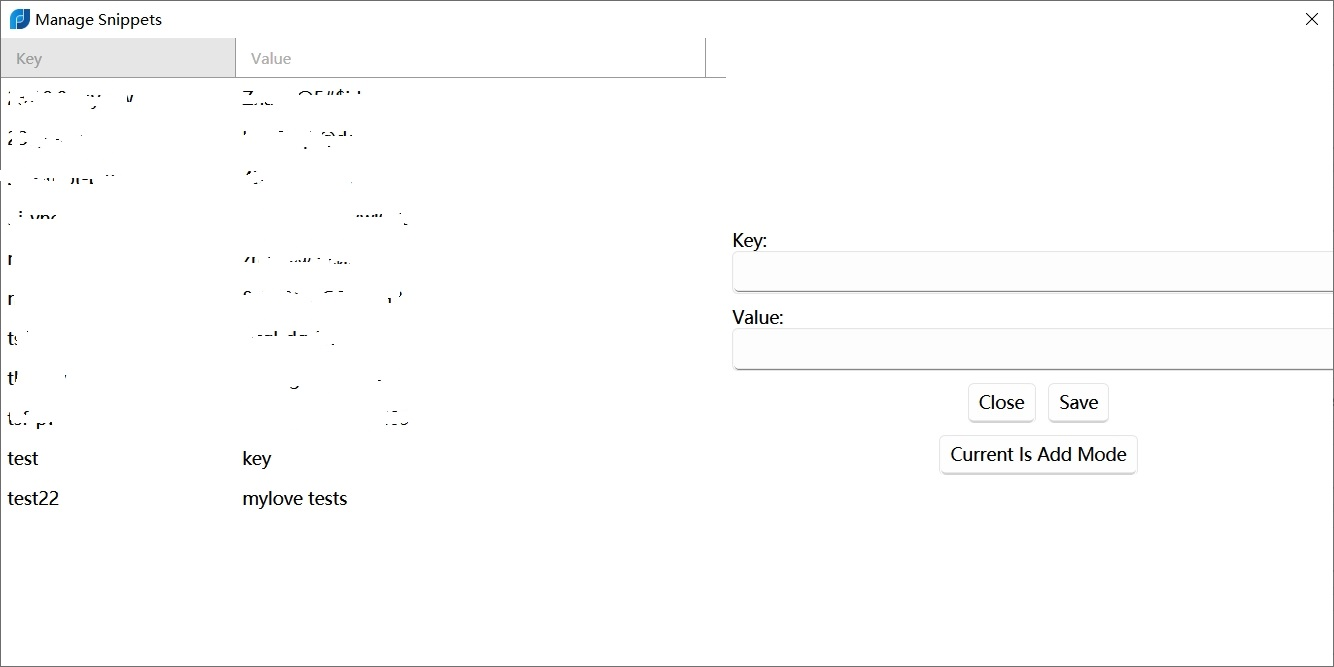
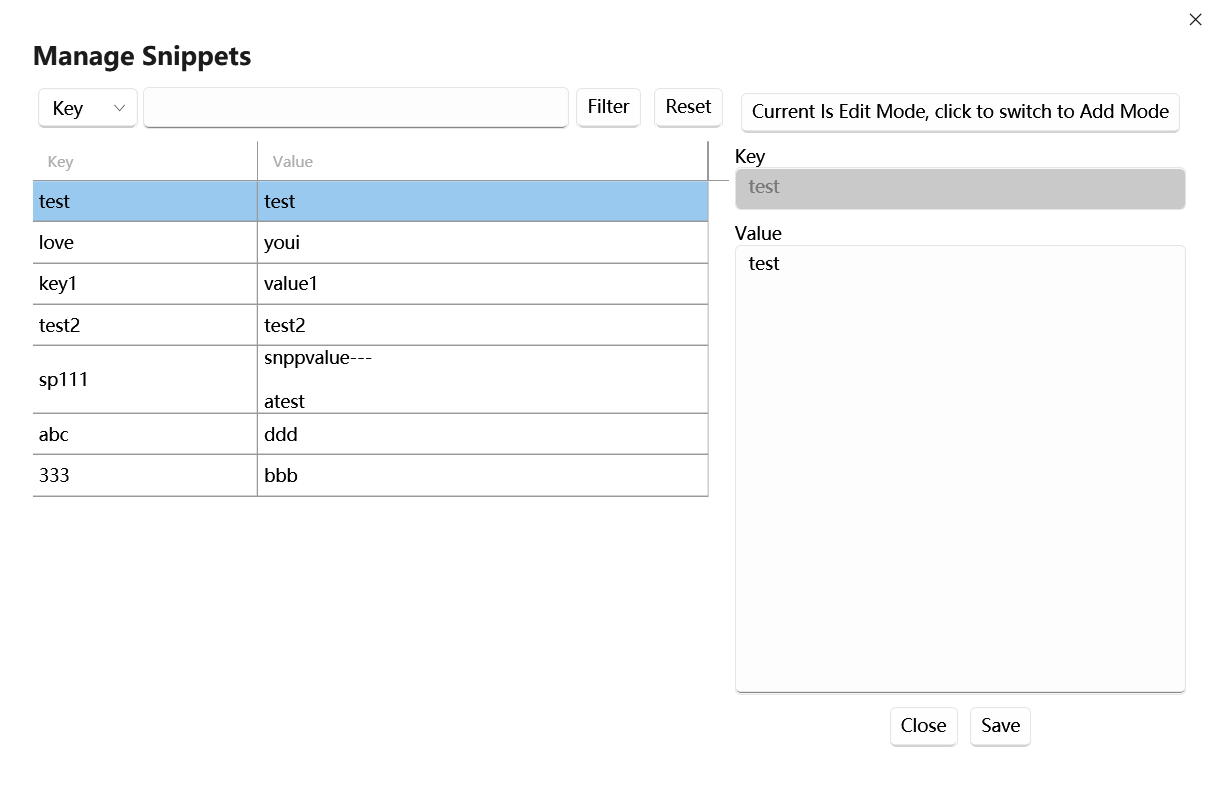
merge to sqlite and json

diff --git a/Flow.Launcher.Plugin.Snippets/SettingPanel.xaml b/Flow.Launcher.Plugin.Snippets/SettingPanel.xaml
@@ -25,23 +25,20 @@
 
         <StackPanel Orientation="Horizontal" Margin="10">
 
-            <Label Width="180" VerticalAlignment="Center"
+            <Label VerticalAlignment="Center"
                    Content="{DynamicResource snippets_plugin_storage_mode}">
             </Label>
 
-            <RadioButton Name="RadioButtonJsonSetting" Margin="10,0,10,0"
-                         GroupName="StorageMode"
-                         VerticalAlignment="Center" Checked="RadioButtonJsonSetting_OnChecked"
-                         Content="{DynamicResource snippets_plugin_storage_json_setting}">
-            </RadioButton>
-            <RadioButton Name="RadioButtonSqlite" Margin="10,0,10,0"
-                         GroupName="StorageMode"
-                         VerticalAlignment="Center" Checked="RadioButtonSqlite_OnChecked"
-                         Content="{DynamicResource snippets_plugin_storage_sqlite}">
-            </RadioButton>
-            <Button Click="ButtonRestart_OnClick" Margin="10,0,10,0"
-                    Content="{DynamicResource snippets_plugin_restart_app}">
+            <ComboBox Name="ComboBoxStorageMode" Margin="10,0,10,0" Width="300">
+                <ComboBoxItem Content="{DynamicResource snippets_plugin_storage_json_setting}"></ComboBoxItem>
+                <ComboBoxItem Content="{DynamicResource snippets_plugin_storage_sqlite}"></ComboBoxItem>
+            </ComboBox>
+
+            <Button Click="ButtonChangeAndRestart_OnClick" Margin="10,0,10,0"
+                    Content="{DynamicResource snippets_plugin_change_and_restart_app}">
             </Button>
+
+
         </StackPanel>
     </StackPanel>
 

diff --git a/Flow.Launcher.Plugin.Snippets/Languages/zh-cn.xaml b/Flow.Launcher.Plugin.Snippets/Languages/zh-cn.xaml
@@ -33,9 +33,12 @@
     <system:String x:Key="snippets_plugin_import">导入</system:String>
     <system:String x:Key="snippets_plugin_clear">清空所有数据</system:String>
     <system:String x:Key="snippets_plugin_storage_mode">存储模式(需要重启应用)</system:String>
-    <system:String x:Key="snippets_plugin_restart_app">重启应用</system:String>
+    <system:String x:Key="snippets_plugin_change_and_restart_app">修改并重启应用</system:String>
     <system:String x:Key="snippets_plugin_storage_json_setting">Json 设置,简单,轻量(默认)</system:String>
     <system:String x:Key="snippets_plugin_storage_sqlite">Sqlite,大量数据</system:String>
     <system:String x:Key="snippets_plugin_select_json_file">选择 Json 文件</system:String>
-
+    <system:String x:Key="snippets_plugin_save_json_file">保存 Json 文件</system:String>
+    <system:String x:Key="snippets_plugin_error">错误</system:String>
+    <system:String x:Key="snippets_plugin_file_not_found">文件不存在</system:String>
+    
 </ResourceDictionary>

diff --git a/Flow.Launcher.Plugin.Snippets/Languages/en.xaml b/Flow.Launcher.Plugin.Snippets/Languages/en.xaml
@@ -33,9 +33,12 @@
     <system:String x:Key="snippets_plugin_import">Import</system:String>
     <system:String x:Key="snippets_plugin_clear">Clear All Data</system:String>
     <system:String x:Key="snippets_plugin_storage_mode">Storage Mode(Need Restart App)</system:String>
-    <system:String x:Key="snippets_plugin_restart_app">Restart App</system:String>
+    <system:String x:Key="snippets_plugin_change_and_restart_app">Change And Restart App</system:String>
     <system:String x:Key="snippets_plugin_storage_json_setting">Json Setting, Simple, Light(Default)</system:String>
     <system:String x:Key="snippets_plugin_storage_sqlite">Sqlite, Large Data</system:String>
     <system:String x:Key="snippets_plugin_select_json_file">Select Json File</system:String>
+    <system:String x:Key="snippets_plugin_save_json_file">Save Json File</system:String>
+    <system:String x:Key="snippets_plugin_error">Error</system:String>
+    <system:String x:Key="snippets_plugin_file_not_found">File Not Found</system:String>
 
 </ResourceDictionary>

diff --git a/Flow.Launcher.Plugin.Snippets/FormWindows.xaml b/Flow.Launcher.Plugin.Snippets/FormWindows.xaml
@@ -82,7 +82,7 @@
 
                     <Grid DockPanel.Dock="Top">
                         <Grid.ColumnDefinitions>
-                            <ColumnDefinition Width="88" />
+                            <ColumnDefinition Width="100" />
                             <ColumnDefinition Width="*" />
                             <ColumnDefinition Width="64" />
                             <ColumnDefinition Width="64" />

diff --git a/Flow.Launcher.Plugin.Snippets/SettingPanel.xaml.cs b/Flow.Launcher.Plugin.Snippets/SettingPanel.xaml.cs
@@ -1,6 +1,8 @@
 using System.IO;
+using System.Threading.Tasks;
 using System.Windows;
 using System.Windows.Controls;
+using Flow.Launcher.Plugin.Snippets.Util;
 using Microsoft.Win32;
 
 namespace Flow.Launcher.Plugin.Snippets;
@@ -18,20 +20,13 @@ public partial class SettingPanel : UserControl
         _snippetManage = snippetManage;
         InitializeComponent();
 
-
-        if (_settings.StorageType == StorageType.Sqlite)
-        {
-            RadioButtonSqlite.IsChecked = true;
-        }
-        else
-        {
-            RadioButtonJsonSetting.IsChecked = true;
-        }
+        ComboBoxStorageMode.SelectedIndex = _settings.StorageType == StorageType.Sqlite ? 1 : 0;
     }
 
     private void ButtonOpenManage_OnClick(object sender, RoutedEventArgs e)
     {
-        var fw = new FormWindows(_publicApi, _snippetManage)
+        FormWindows.ShowWindows(_publicApi, _snippetManage);
+        /*var fw = new FormWindows(_publicApi, _snippetManage)
         {
             // Title = _publicApi.GetTranslation("snippets_plugin_manage_snippets"),
             // WindowStartupLocation = WindowStartupLocation.CenterScreen,
@@ -40,19 +35,7 @@ public partial class SettingPanel : UserControl
             // ResizeMode = ResizeMode.NoResize,
             // ShowInTaskbar = false
         };
-        fw.ShowDialog();
-    }
-
-    private void RadioButtonSqlite_OnChecked(object sender, RoutedEventArgs e)
-    {
-        _settings.StorageType = StorageType.Sqlite;
-        _publicApi.SavePluginSettings();
-    }
-
-    private void RadioButtonJsonSetting_OnChecked(object sender, RoutedEventArgs e)
-    {
-        _settings.StorageType = StorageType.JsonSetting;
-        _publicApi.SavePluginSettings();
+        fw.ShowDialog();*/
     }
 
     private void ButtonClear_OnClick(object sender, RoutedEventArgs e)
@@ -70,25 +53,51 @@ public partial class SettingPanel : UserControl
             Multiselect = false
         };
 
-        if (dialog.ShowDialog() == true)
+        if (dialog.ShowDialog() != true) return;
+
+        var file = dialog.FileName;
+
+        if (!File.Exists(file))
         {
-            var file = dialog.FileName;
-            if (File.Exists(file))
-            {
-                // read file
-                var json = File.ReadAllText(file);
-                _snippetManage.Clear();
-            }
+            _publicApi.ShowMsgError(_publicApi.GetTranslation("snippets_plugin_error"),
+                _publicApi.GetTranslation("snippets_plugin_file_not_found"));
+            return;
         }
+
+        Task.Run(() =>
+        {
+            var sms = FileUtil.ReadSnippets(file);
+            foreach (var sm in sms)
+            {
+                _snippetManage.Add(sm);
+            }
+        });
     }
 
     private void ButtonExport_OnClick(object sender, RoutedEventArgs e)
     {
+        var dialog = new SaveFileDialog
+        {
+            Filter = "Json file (*.json)|*.json",
+            Title = _publicApi.GetTranslation("snippets_plugin_save_json_file"),
+            FileName = "snippets.json"
+        };
+        if (dialog.ShowDialog() != true) return;
+        var file = dialog.FileName;
         var list = _snippetManage.List();
+        Task.Run(() => FileUtil.WriteSnippets(file, list));
     }
 
-    private void ButtonRestart_OnClick(object sender, RoutedEventArgs e)
+    private void ButtonChangeAndRestart_OnClick(object sender, RoutedEventArgs e)
     {
-        _publicApi.RestartApp();
+        var mode = ComboBoxStorageMode.SelectedIndex;
+        var storageType = mode == 0 ? StorageType.JsonSetting : StorageType.Sqlite;
+
+        if (storageType != _settings.StorageType)
+        {
+            _settings.StorageType = storageType;
+            _publicApi.SavePluginSettings();
+            _publicApi.RestartApp();
+        }
     }
 }

diff --git a/Flow.Launcher.Plugin.Snippets/FormWindows.xaml.cs b/Flow.Launcher.Plugin.Snippets/FormWindows.xaml.cs
@@ -11,6 +11,24 @@ namespace Flow.Launcher.Plugin.Snippets;
 
 public partial class FormWindows : Window
 {
+    private static FormWindows _instance;
+
+    public static void ShowWindows(IPublicAPI publicApi, SnippetManage snippetManage,
+        [CanBeNull] SnippetModel selectSm = null)
+    {
+        if (_instance == null)
+        {
+            _instance = new FormWindows(publicApi, snippetManage, selectSm);
+            _instance.Show();
+        }
+        else
+        {
+            _instance._selectSm = selectSm;
+            _instance.Activate();
+        }
+    }
+
+
     private IPublicAPI _publicAPI;
 
     private SnippetManage _snippetManage;
@@ -26,9 +44,16 @@ public partial class FormWindows : Window
     {
         _publicAPI = publicApi;
         _snippetManage = snippetManage;
+        _selectSm = selectSm;
 
         InitializeComponent();
 
+        Activated += (sender, args) =>
+        {
+            _reload();
+        };
+
+        Closed += (sender, args) => { _instance = null; };
         PreviewKeyDown += (sender, e) =>
         {
             if (e.Key == Key.Escape)
@@ -44,12 +69,17 @@ public partial class FormWindows : Window
         ComboBoxFilterType.SelectedIndex = 0; // default key
 
         DataGrid.ItemsSource = _snippetsSource;
-        _loadData();
-        var findIdx = _findBySelectData(selectSm?.Key);
-        if (findIdx != -1)
-            DataGrid.SelectedIndex = findIdx;
+
         DataContext = this;
         AddContextMenu();
+    }
+
+    private void _reload()
+    {
+        _loadData();
+        var findIdx = _findBySelectData(_selectSm?.Key);
+        if (findIdx != -1)
+            DataGrid.SelectedIndex = findIdx;
     }
 
     private int _findBySelectData([CanBeNull] string findKey)

diff --git a/Flow.Launcher.Plugin.Snippets/Main.cs b/Flow.Launcher.Plugin.Snippets/Main.cs
@@ -152,7 +152,8 @@ namespace Flow.Launcher.Plugin.Snippets
                     IcoPath = IconPath,
                     Action = _ =>
                     {
-                        var fw = new FormWindows(_context.API, _snippetManage, sm)
+                        FormWindows.ShowWindows(_context.API, _snippetManage, sm);
+                        /*var fw = new FormWindows(_context.API, _snippetManage, sm)
                         {
                             // Title = _context.API.GetTranslation("snippets_plugin_manage_snippets"),
                             // WindowStartupLocation = WindowStartupLocation.CenterScreen,
@@ -161,7 +162,8 @@ namespace Flow.Launcher.Plugin.Snippets
                             // ResizeMode = ResizeMode.NoResize,
                             // ShowInTaskbar = false
                         };
-                        fw.ShowDialog();
+                        fw.ShowDialog();*/
+                        
                         return true;
                     }
                 });

diff --git a/Flow.Launcher.Plugin.Snippets/Util/FileUtil.cs b/Flow.Launcher.Plugin.Snippets/Util/FileUtil.cs
@@ -1,6 +1,8 @@
 using System;
+using System.Collections.Generic;
 using System.IO;
 using System.Linq;
+using System.Text.Json;
 
 namespace Flow.Launcher.Plugin.Snippets.Util;
 
@@ -57,5 +59,17 @@ public class FileUtil
         //  <flowDir>\Settings\Plugins\<pluginName>
         _dataDirectory = Path.Combine(flowDir, "Settings", "Plugins", action());
         return _dataDirectory;
+    }
+
+    public static void WriteSnippets(string file, List<SnippetModel> sms)
+    {
+        var json = JsonSerializer.Serialize(sms);
+        File.WriteAllText(file, json);
+    }
+
+    public static List<SnippetModel> ReadSnippets(string file)
+    {
+        var json = File.ReadAllText(file);
+        return JsonSerializer.Deserialize<List<SnippetModel>>(json);
     }
 }

diff --git a/Flow.Launcher.Plugin.Snippets/Sqlite/SqliteSnippetManage.cs b/Flow.Launcher.Plugin.Snippets/Sqlite/SqliteSnippetManage.cs
@@ -141,7 +141,7 @@ public class SqliteSnippetManage : SnippetManage
 
     public void Clear()
     {
-        const string sql = $"truncate table {TABLE_NAME}";
+        const string sql = $"delete from {TABLE_NAME}";
         using var connection = new SQLiteConnection(_connectionString);
         connection.Open();
         using var command = new SQLiteCommand(sql, connection);

diff --git a/Readme.md b/Readme.md
@@ -7,6 +7,21 @@ A plugin for the [Flow launcher](https://github.com/Flow-Launcher/Flow.Launcher)
 
     sp <arguments>
 
+
+### Storage Type
+- Flow Launcher Json Setting
+  - Default
+- Sqlite
+
+>Note: If you want to use Sqlite, you need to change the storage type in the settings. PS: `original data will not be migrated`
+
+#### Change Storage Type Migration
+1. export original data
+2. change storage type
+3. import original data
+
+### Snapshots 
+
 #### Quick Add
 ![](Resources/quick-add.jpg)
 
